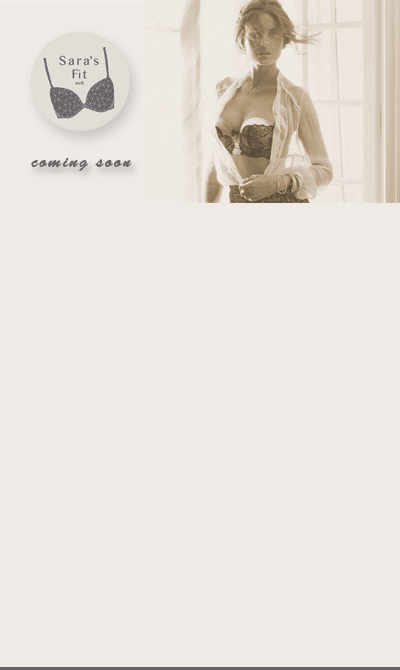
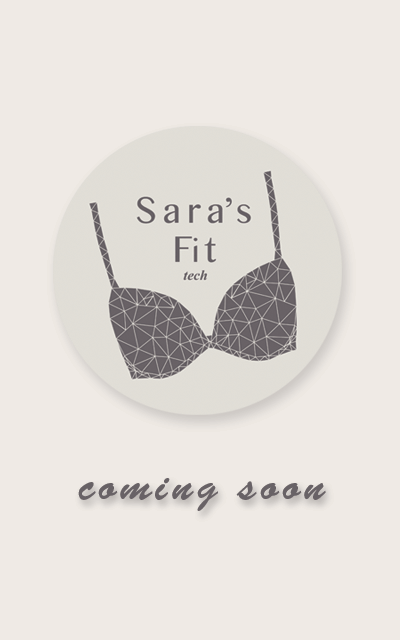
backup5

diff --git a/index.html b/index.html
@@ -73,7 +73,7 @@
     </aside>
 
     <!-- About -->
-    <section id="about" class="about">
+    <section id="about" class="about"  style="background-color:#f4f3f2">
         <div class="container">
             <div class="row">
                 <div class="col-lg-12 col-lg text-center">
@@ -138,7 +138,7 @@
     </aside>
 
     <!-- About -->
-    <section id="about" class="about">
+    <section id="about" class="about" style="background-color:#f4f3f2">
         <div class="container">
             <div class="row">
                 <div class="col-lg-12 text-center">
@@ -457,12 +457,12 @@
     </section>
 
 
-    <div class="text-vertical-center3" style="position: relative; margin: auto; text-align: center;">
+    <div class="text-vertical-center3" style="position: relative; margin: auto; text-align: center; background-color:#f4f3f2">
         <a href="https://sarasfit.typeform.com/to/swPtZT" class="btn btn-dark btn-lg" style="margin: auto;">핏테스트 하러가기</a>
     </div>
 
      <!-- Header -->
-      <header id="top" class="header1">
+      <header id="top" class="header1"  style="background-color:#f4f3f2">
           <div class="text-vertical-center1">
 
 <h2 style="font-family: 'Nanum Brush Script', cursive;"><strong>아름다운 몸매를<br>연출하고<br>싶으신가요?</strong></h2>
@@ -482,8 +482,9 @@
 
          </div>
      </header>
-
+    <div style="background-color:#f4f3f2">
     <br>
+    </div>
 
 
      <!-- Header -->
@@ -502,7 +503,7 @@
      </header>
 
     <!-- Footer -->
-    <footer>
+    <footer style="background-color:#f4f3f2">
         <div class="container">
             <div class="row">
                 <div class="col-lg-10 col-lg-offset-1 text-center">

diff --git a/css/stylish-portfolio.css b/css/stylish-portfolio.css
@@ -191,6 +191,7 @@ hr.small {
 }
 
 /* Header */
+@media screen and (min-width: 500px) {
 .header {
     display: table;
     position: relative;
@@ -202,7 +203,21 @@ hr.small {
     background-size: cover;
     -o-background-size: cover;
 }
+}
 
+@media screen and (max-width: 500px) {
+.header {
+    display: table;
+    position: relative;
+    width: 100%;
+    height: 100%;
+    background: url(../img/saramain9.png) no-repeat left scroll;
+    -webkit-background-size: cover;
+    -moz-background-size: cover;
+    background-size: cover;
+    -o-background-size: cover;
+}
+}
 
 /* Header */
 
